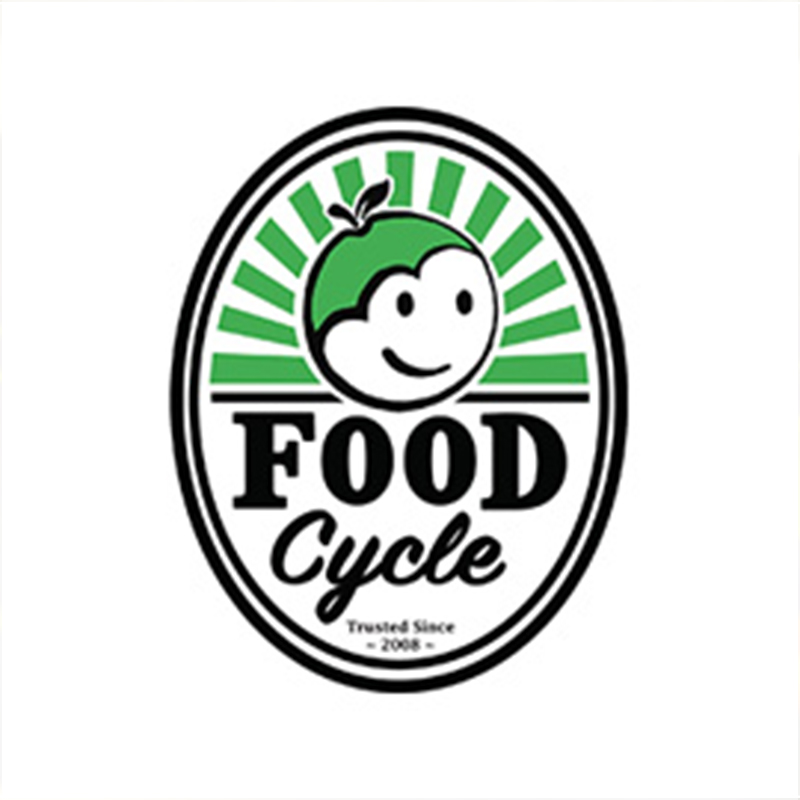
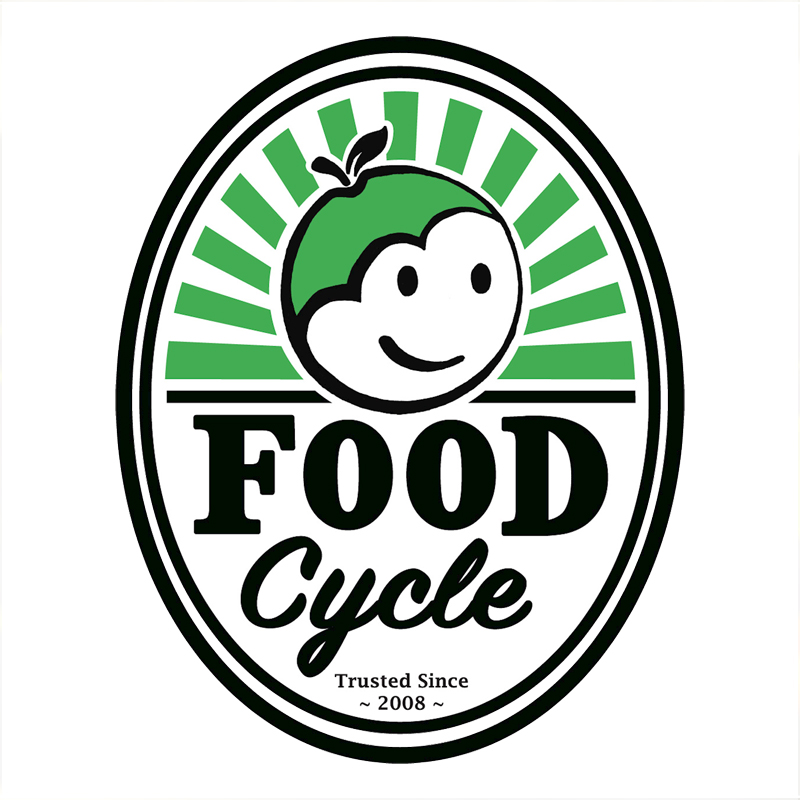
updated image files for service and teaching, input email address, and im a sleepy cute baby

diff --git a/index.html b/index.html
@@ -6,7 +6,6 @@
 <meta name="viewport" content="width=device-width, initial-scale=1, minimum-scale=1.0, shrink-to-fit=no">
 <link href="images/galaxy.png" rel="icon" />
 <title>Boryana - Astronomer</title>
-<meta name="description" content="Boryana is an astronomer working on large-scale structure and cosmology.">
 <meta name="author" content="harnishdesign.net">
 
 <!-- Web Fonts -->
@@ -340,7 +339,7 @@
         <div class="owl-carousel owl-light owl-theme" data-loop="true" data-nav="false" data-autoplay="false"  data-margin="20" data-stagepadding="0" data-slideby="1" data-items-xs="1" data-items-sm="1" data-items-md="1" data-items-lg="2">
 	  <div class="item">
             <div class="bg-dark rounded p-5">
-              <div class="d-flex align-items-center mt-auto mb-4"> <img class="img-fluid rounded-circle d-inline-block w-auto" src="images/testimonial/client-sm-4.jpg" alt="">
+              <div class="d-flex align-items-center mt-auto mb-4"> <img class="img-fluid rounded-circle d-inline-block w-auto" src="images/testimonial/cmb.jpg" alt="">
                 <p class="ml-3 mb-0"><strong class="d-block text-white font-weight-600">"Introduction to Cosmology"</strong> <span class="text-white-50 font-weight-500">Course Instructor, Harvard Summer School</span></p>
               </div>
               <p class="text-light mb-4">I'm currently in the midst of designing an introductory course on cosmology that will take place in July 2021. It is geared towards high school students eager to know more about the Universe and is going to cover topics such as the accelerated expansion of the Universe, the Big Bang, galaxy formation and evolution, and special topics of interest such as black holes and gravitational waves. I'm hoping that this course will teach me invaluable pedagogical skills. At the same time, I hope it will be enjoyable for the students.</p>
@@ -348,7 +347,7 @@
           </div>
           <div class="item">
             <div class="bg-dark rounded p-5">
-              <div class="d-flex align-items-center mt-auto mb-4"> <img class="img-fluid rounded-circle d-inline-block w-auto" src="images/testimonial/client-sm-1.jpg" alt="">
+              <div class="d-flex align-items-center mt-auto mb-4"> <img class="img-fluid rounded-circle d-inline-block w-auto" src="images/testimonial/SRMP.jpg" alt="">
                 <p class="ml-3 mb-0"><strong class="d-block text-white font-weight-600">"ROCKSTAR vs. FoF: a feud"<br> Kikyo Hattori & Faith Rounds</strong> <span class="text-white-50 font-weight-500">Science Research Mentoring Program, Harvard-MIT</span></p>
               </div>
               <p class="text-light mb-4">For a year, I mentored two brilliant students from a local public high school who analyzed the flaws in the ubiquitously used Friends-of-Friends halo-finder when measured up against the much more accurate but computationally expensive ROCKSTAR algorithm. Apart from the pure research component, we also developed an <a href="https://sites.google.com/view/srmp-website/">informative website</a> for amateur astronomers, and one of the students designed a smart phone app. I feel like this project taught me that sometimes research can take unexpected turns, but those are often for the better!</p>
@@ -356,7 +355,7 @@
           </div>
 	  <div class="item">
             <div class="bg-dark rounded p-5">
-              <div class="d-flex align-items-center mt-auto mb-4"> <img class="img-fluid rounded-circle d-inline-block w-auto" src="images/testimonial/client-sm-3.jpg" alt="">
+              <div class="d-flex align-items-center mt-auto mb-4"> <img class="img-fluid rounded-circle d-inline-block w-auto" src="images/testimonial/Polygence.jpg" alt="">
                 <p class="ml-3 mb-0"><strong class="d-block text-white font-weight-600">"A Semi-analytical study", S. L.</strong> <span class="text-white-50 font-weight-500">Polygence, online</span></p>
               </div>
               <p class="text-light mb-4">I've been mentoring an advanced high school student through the online platform Polygence for a year now. Our project involves comparing the large-scale clustering predicted by a semi-analytical model and a hydrodynamical simulation. This experience has been really helpful for me in terms of figuring out the best way to explain concepts in astronomy and teach the skills needed to conduct research at an academic level.</p>
@@ -364,7 +363,7 @@
           </div>
           <div class="item">
             <div class="bg-dark rounded p-5">
-              <div class="d-flex align-items-center mt-auto mb-4"> <img class="img-fluid rounded-circle d-inline-block w-auto" src="images/testimonial/client-sm-2.jpg" alt="">
+              <div class="d-flex align-items-center mt-auto mb-4"> <img class="img-fluid rounded-circle d-inline-block w-auto" src="images/testimonial/Harvard.jpg" alt="">
                 <p class="ml-3 mb-0"><strong class="d-block text-white font-weight-600">"Intro to Astronomy" and "Life as a planetary phenomenon"</strong> <span class="text-white-50 font-weight-500">Teaching Fellow, Harvard</span></p>
               </div>
               <p class="text-light mb-4">As part of my PhD, I served as a teaching fellow for two excellent courses taught by Dave Charbonneau and Dimitar Sasselov. I led a section for each and was given a lot of freedom in deciding how to present the materials and engage the class. I was happiest in the moments when I felt like the students connected with me and trusted me enough to bring forth their questions and concerns.</p>
@@ -503,7 +502,8 @@
           </div>
           <div class="col-md-8 col-xl-9 order-0 order-md-1">
             <h2 class="mb-3 text-5 text-white text-uppercase text-center text-md-left">Ask an astronomer</h2>
-			<form id="contact-form" class="form-dark" action="php/mail.php" method="post">
+			<form id="contact-form" class="form-dark" action="mailto:boryana.hadzhiyska@
+cfa.harvard.edu" method="post">
               <div class="row">
                 <div class="col-xl-6">
                   <div class="form-group">
